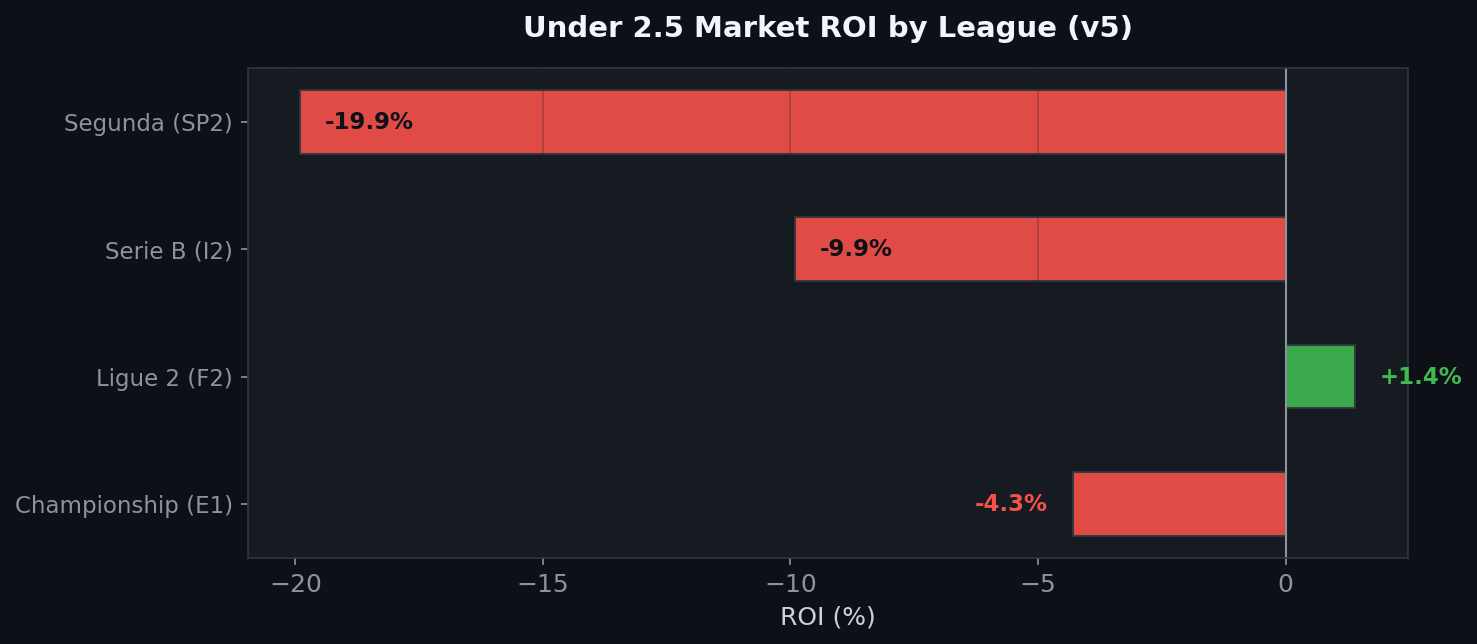
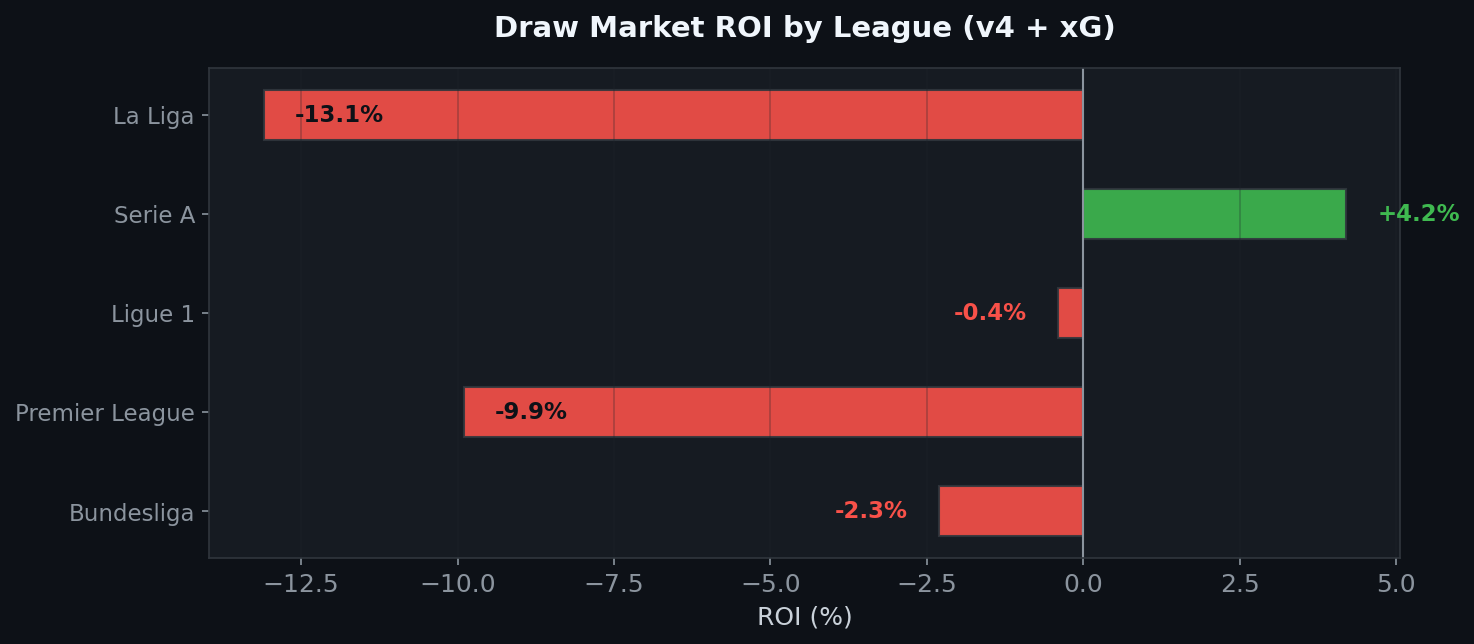
fix: improve label readability on league ROI chart

diff --git a/docs/generate_plots.py b/docs/generate_plots.py
@@ -122,7 +122,12 @@ cl = [GREEN if r >= 0 else RED for r in rl]
 ax.barh(range(5), rl, color=cl, edgecolor="#30363D", height=0.5, alpha=0.9)
 ax.axvline(0, color="#8B949E", ls="-", lw=1)
 for i, v in enumerate(rl):
-    ax.text(v + (0.5 if v >= 0 else -0.5), i, f"{v:+.1f}%", va="center", fontsize=11, fontweight="bold", ha="left" if v >= 0 else "right", color=cl[i])
+    if v >= 0:
+        ax.text(v + 0.5, i, f"{v:+.1f}%", va="center", fontsize=11, fontweight="bold", ha="left", color=cl[i])
+    elif v < -8:
+        ax.text(v + 0.5, i, f"{v:+.1f}%", va="center", fontsize=11, fontweight="bold", ha="left", color="#0D1117")
+    else:
+        ax.text(v - 0.5, i, f"{v:+.1f}%", va="center", fontsize=11, fontweight="bold", ha="right", color=cl[i])
 ax.set_yticks(range(5)); ax.set_yticklabels(lg, fontsize=11)
 ax.set_xlabel("ROI (%)"); ax.set_title("Draw Market ROI by League (v4 + xG)", fontsize=14, fontweight="bold", color="#F0F6FC", pad=15)
 ax.grid(axis="x", alpha=0.3); plt.tight_layout()

diff --git a/README.md b/README.md
@@ -75,7 +75,7 @@ This makes sense: bookmaker odds already *encode* all public statistics. The onl
 
 Only Serie A shows a positive ROI (+4.2%) on the draw market, but with 353 bets and a p-value of 0.31, this is indistinguishable from noise.
 
-![League breakdown](docs/06_leagues.png)
+![League breakdown](docs/06_leagues_v2.png)
 
 ---
 
